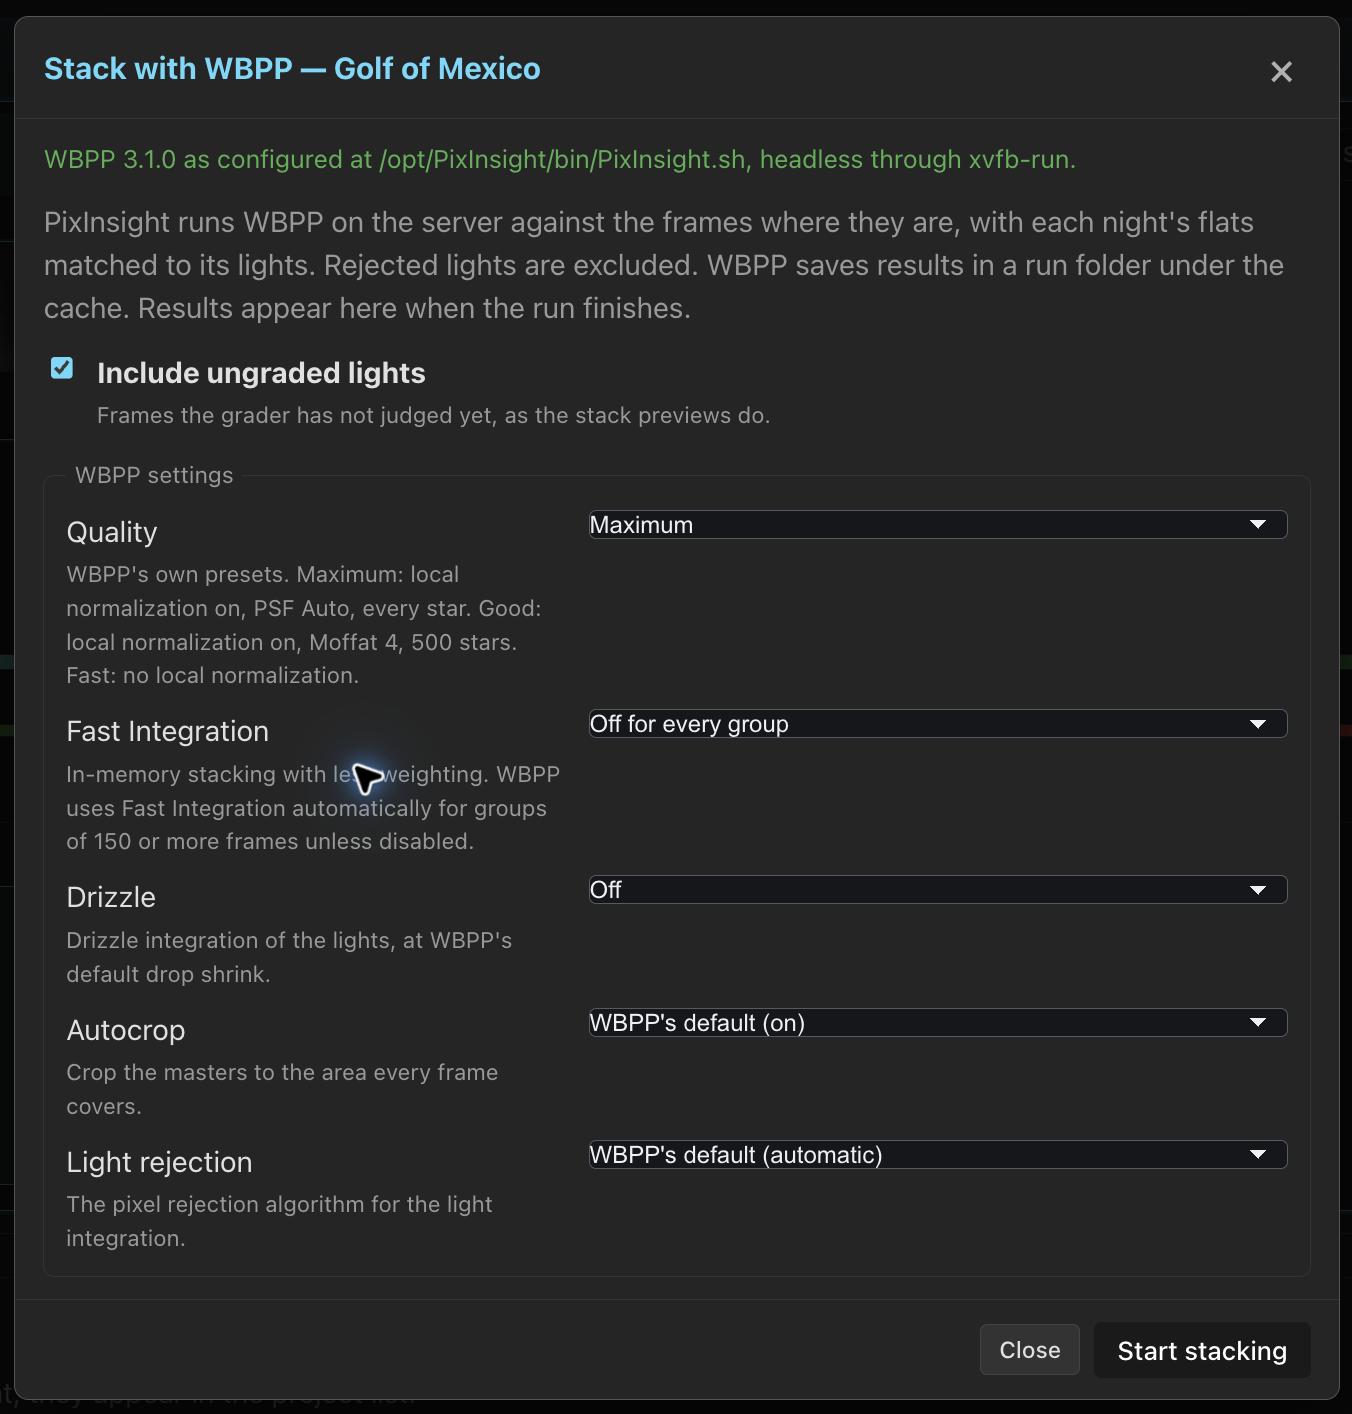
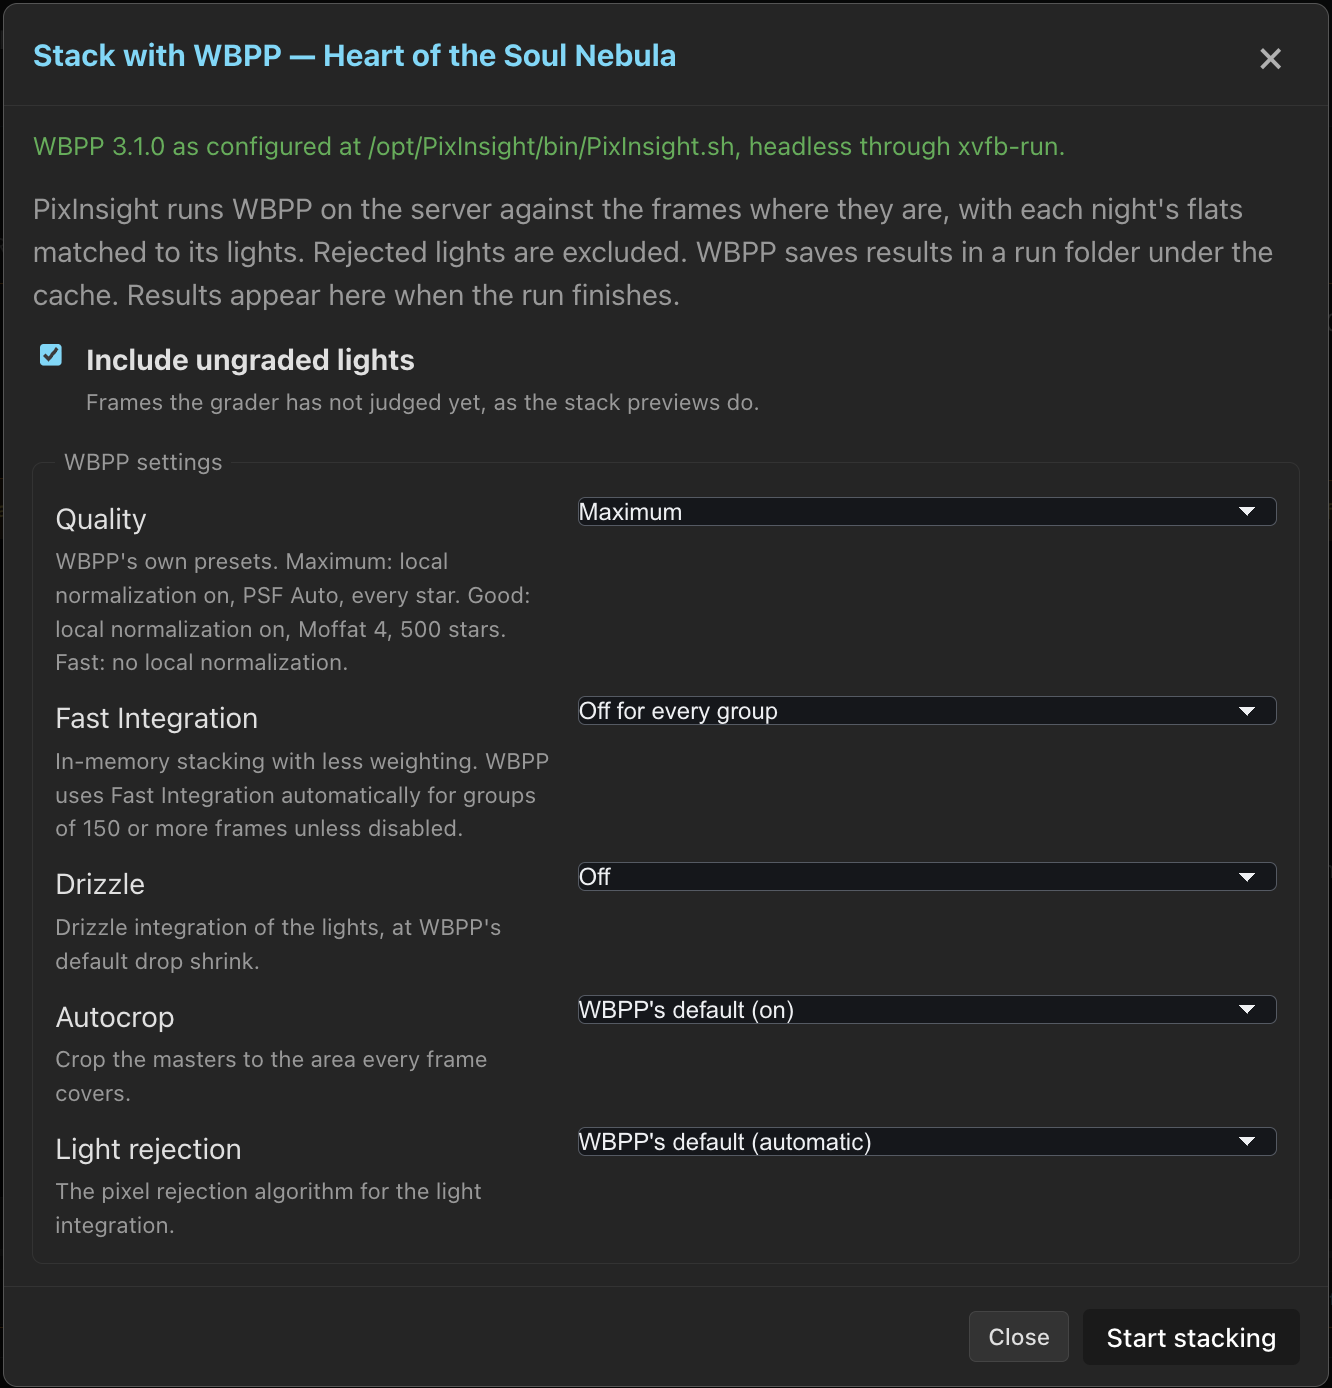
Capture authorized WBPP run setup and processing progress

diff --git a/docs/wbpp.html b/docs/wbpp.html
@@ -236,7 +236,7 @@ function gtag_report_demo() {
 
 
   <figure>
-    <img src="../assets/wbpp-run-dialog.png" loading="lazy" alt="Review WBPP&#x27;s quality, integration and rejection choices before starting the run." width="1352" height="1414">
+    <img src="../assets/wbpp-run-dialog.png" loading="lazy" alt="Review WBPP&#x27;s quality, integration and rejection choices before starting the run." width="1332" height="1388">
     <figcaption>Review WBPP&#x27;s quality, integration and rejection choices before starting the run.</figcaption>
   </figure>
 
@@ -319,7 +319,10 @@ function gtag_report_demo() {
   disk, kept-out calibration frames, and lights that can't be calibrated. It
   shows the space free at the run folder when the run began, and the
   calibration notes <a href="#darks">above</a>.</p>
-  <!-- SHOT: wbpp-run-progress.png | WBPP run dialog on psf-guard.atpn.co for a project of rig c925-scheduler or starfront-redcat61 with Leave out lights that can't be calibrated on (Settings › Calibration › Stacks and exports) and a light that lacks flats: the dialog while the run is under way, showing the stage and elapsed time, the free space line, the counts line ending "… light(s) that can't be calibrated were left out, as stacks leave them out", the "Flats chosen around measured changes: …" line and the "Calibration frames matched with: …" line if any setting differs; crop the progress part of the dialog | The run dialog counts what it left out and names the flat changes and settings it matched by. -->
+  <figure>
+    <img src="../assets/wbpp-run-progress.png" alt="WBPP running on Heart of the Soul Nebula with 57 lights and 155 calibration frames" width="1332" height="430" loading="lazy">
+    <figcaption>WBPP is writing a master dark. The run dialog shows the current step, elapsed time, input counts and free space at startup.</figcaption>
+  </figure>
   <p>WBPP writes its log between steps, so a long integration shows nothing
   new for a while; the clock keeps counting while PixInsight works.
   <strong>Stop PixInsight</strong> ends the run.</p>

diff --git a/SCREENSHOT-PLAN.md b/SCREENSHOT-PLAN.md
@@ -1,14 +1,15 @@
 # Screenshot plan — docs site, next release
 
-The October 17 capture passes now cover **105 assets**: ten from the earlier
+The October 17 capture passes now cover **106 assets**: ten from the earlier
 batches, 94 from the full-guide pass (93 screenshots and one rebuilt collage),
-and the SNR G132 satellite follow-up.
+the SNR G132 satellite follow-up, and WBPP progress. The WBPP setup image
+was also reshot for the same run.
 Captures include the available live-server views and settings, phone layouts,
 calibration comparisons, planning states, queued processing and local import and
 grading examples. Every image has a state, source and reshoot record in
 [assets/screenshot-captures.md](assets/screenshot-captures.md).
 
-The generated lists below contain the **10 remaining shots**. They remain pending;
+The generated lists below contain the **9 remaining shots**. They remain pending;
 their prerequisites must be met before replacing the old image or adding a figure.
 Captions on completed figures describe the actual capture, including empty states
 and differences from the original plan.
@@ -26,11 +27,19 @@ and differences from the original plan.
 | `export-left-out.png` | A local export with exclusion enabled copied its sole light because the fixture has no calibration library or findings. Needs a real missing-calibration finding in a disposable catalog. |
 | `stack-color-progress.png` | No color composition with RC-Astro is running. Needs a configured, licensed local processing setup and suitable channel stacks. |
 | `stack-copy-channel-processing.png` | Needs at least two completed channel stacks with distinct processing settings in a disposable catalog. The local fixture contains only B lights. |
-| `wbpp-run-progress.png` | No suitable WBPP run is active. Needs a local WBPP setup and calibration inputs that demonstrate the exclusion counts. |
 
 For reshoots that require writes, use the disposable fixture or a disposable copy
 with the required real inputs. Do not stage grades, repairs, transfers, activations
 or processing jobs on the live catalogs. Never fabricate a measured finding.
+
+## WBPP: captured October 17
+
+At the user's request, started WBPP for Heart of the Soul Nebula on
+starfront-ultracat131 (`db-93617230`, project and target 2). The setup and progress
+images show the actual run: 57 lights, 155 calibration frames, Maximum quality,
+Fast Integration and drizzle off. Progress shows counts and free space; this run
+did not report the exclusions or flat-change notes in the original shot plan.
+The capture record lists the settings and the permission to start this live run.
 
 ## Satellite overlay: captured October 17
 
@@ -259,7 +268,7 @@ capture record and its history.
 - `astrobin-filter-map.png` — pages: exporting
   - Settings › Databases in the new card layout, one rig's catalog › AstroBin filters (pick a catalog with a filter that changed between nights, or add a dated second G entry): the filter map with name, AstroBin id linked to its page, description, and first and last nights; crop to the filter map
 
-## New screenshots (9)
+## New screenshots (8)
 
 - `calibration-repair-duplicates.png` — pages: calibration
   - Calibration page with the Duplicates filter ticked on a database that has duplicates: the count "N exposures recorded more than once", "Checked … ago", Check again and Repair duplicates…, and the Repair duplicates dialog open on its preview (rows to merge, missing files, second copies, masters built again) or running with "Merging 37 of 203" and Stop
@@ -277,5 +286,3 @@ capture record and its history.
   - Capture an already running color composition with RC-Astro from the header's background jobs list. Show the target, channel and tool progress, such as H-alpha: BlurXTerminator (42%), its progress bar and Stop. Do not stop the job. If no suitable job is running, use a disposable local catalog for a test run instead of starting work on the live server for a screenshot.
 - `stack-copy-channel-processing.png` — pages: stacking
   - In a disposable local catalog, open a color composition's Processing stack with at least two channel cards showing different deconvolution or RC-Astro settings. Show Use each channel's processing and the per-input settings after clicking it, with enough of the channel cards to compare the copied choices. Do not Apply processing or save a setup solely for this screenshot.
-- `wbpp-run-progress.png` — pages: wbpp
-  - WBPP run dialog on psf-guard.atpn.co for a project of rig c925-scheduler or starfront-redcat61 with Leave out lights that can't be calibrated on (Settings › Calibration › Stacks and exports) and a light that lacks flats: the dialog while the run is under way, showing the stage and elapsed time, the free space line, the counts line ending "… light(s) that can't be calibrated were left out, as stacks leave them out", the "Flats chosen around measured changes: …" line and the "Calibration frames matched with: …" line if any setting differs; crop the progress part of the dialog

diff --git a/assets/screenshot-captures.md b/assets/screenshot-captures.md
@@ -1548,3 +1548,64 @@ bookmarks. The 11 remaining shots and their prerequisites stay in the shot plan.
   (0, 0, 1569.6, 1083.6), scale 1. Direct browser PNG; no retouching or redaction.
 - **Verification:** inspected the saved image: target heading, green matched
   path, candidate label, counts and identity qualification are legible.
+
+## WBPP run — October 17, 2026
+
+The user explicitly requested this live run for Heart of the Soul Nebula on
+starfront-ultracat131. Starting it was part of the task, not staging a screenshot.
+Database `db-93617230`, project 2, target 2; the linked current frame is 960.
+The Stacks view listed HA 600 s, OIII 600 s and R 300 s.
+
+The run uses Maximum quality, includes ungraded lights, disables Fast Integration
+and drizzle, and uses WBPP's defaults for autocrop (on) and rejection (automatic).
+Extra parameters and Run folder were blank, so the configured runs folder applies.
+Save the masters when done was off. No global settings or stored grades changed.
+
+Reshooting the setup needs only opening Stack in WBPP from the recorded URL.
+Reshooting progress should use this run while active, or another separately
+authorized run. Do not start a duplicate run just to reproduce the elapsed time.
+This example shows frame counts and free space; it does not show the exclusion
+counts or flat-change notes requested by the original shot plan.
+
+### assets/wbpp-run-dialog.png
+
+#### 2026-10-18T02:40:25.436Z — capture
+
[1 lines of base64/hex data omitted]
+- **Used by:** `docs/wbpp.html`, Stack in WBPP.
+- **Build/environment:** shared live server at psf-guard.atpn.co, previously
+  reported version 0.11.0; deployed commit unknown. WBPP 3.1.0. macOS 27.0.1,
+  Chrome 155.0.8059.82, English, dark theme, 90% zoom. Viewport
+  1744 × 1204 CSS px, effective DPR 1.8.
+- **URL:** https://psf-guard.atpn.co/#/stacks?db=db-93617230&project=2&current=960&scoreScope=target-filter%3AR&target=2
+- **State and reshoot:** Heart of the Soul Nebula on starfront-ultracat131; WBPP 3.1.0 configured, Include ungraded lights on, Maximum quality, Fast Integration off, Drizzle off, Autocrop default on, rejection default automatic. More parameters and run-folder fields blank; Save masters off. Setup dialog before starting user-authorized live run.
+- **Composition:** CSS crop (502, 216, 740, 772);
+  multiply by 0.9 for the CDP clip, scale 1. Direct browser capture, no retouching.
+
+### assets/wbpp-run-progress.png
+
+#### 2026-10-18T02:40:47.803Z — capture
+
[1 lines of base64/hex data omitted]
+- **Used by:** `docs/wbpp.html`, Follow the run.
+- **Build/environment:** shared live server at psf-guard.atpn.co, previously
+  reported version 0.11.0; deployed commit unknown. WBPP 3.1.0. macOS 27.0.1,
+  Chrome 155.0.8059.82, English, dark theme, 90% zoom. Viewport
+  1744 × 1204 CSS px, effective DPR 1.8.
+- **URL:** https://psf-guard.atpn.co/#/stacks?db=db-93617230&project=2&current=960&scoreScope=target-filter%3AR&target=2
+- **State and reshoot:** User-authorized run for Heart of the Soul Nebula, starfront-ultracat131, project/target 2, db-93617230. PixInsight is running WBPP, 57 lights and 155 calibration frames; 525.3 GiB free at start. Startup log reports PixInsight Core 1.9.5 Lockhart x64 and WBPP 3.1.0. No excluded-frame counts shown.
+- **Composition:** CSS crop (502, 396, 740, 412);
+  multiply by 0.9 for the CDP clip, scale 1. Direct browser capture, no retouching.
+
+#### 2026-10-18T02:42:35.482Z — active processing reshoot
+
[1 lines of base64/hex data omitted]
+- **Source, build and settings:** same authorized run and environment as above.
+- **State:** WBPP is actively writing a master Dark frame (step 4). 57 lights, 155 calibration frames, 525.3 GiB free at start. Crop shows title, elapsed time, input counts and current step; the log below is outside the crop to omit private source paths. Run began 2026-10-18 02:40:25 UTC; run folder basename Heart_of_the_Soul_Nebula-20261018-024025. No excluded-frame counts shown.
+- **Composition:** CSS crop (502, 320, 740, 239); CDP clip
+  (451.8, 288, 666, 215.1), scale 1. No retouching.
+- **Reshoot:** reopen this run from its target's Stacks view. Capture the title
+  and progress summary while a processing step is visible; keep source paths
+  in the log outside the crop. Timing and step will differ on a new run.
+- **Verification:** setup and progress images inspected at full size. Docs build,
+  screenshot-plan generation, link checks and diff checks passed.
